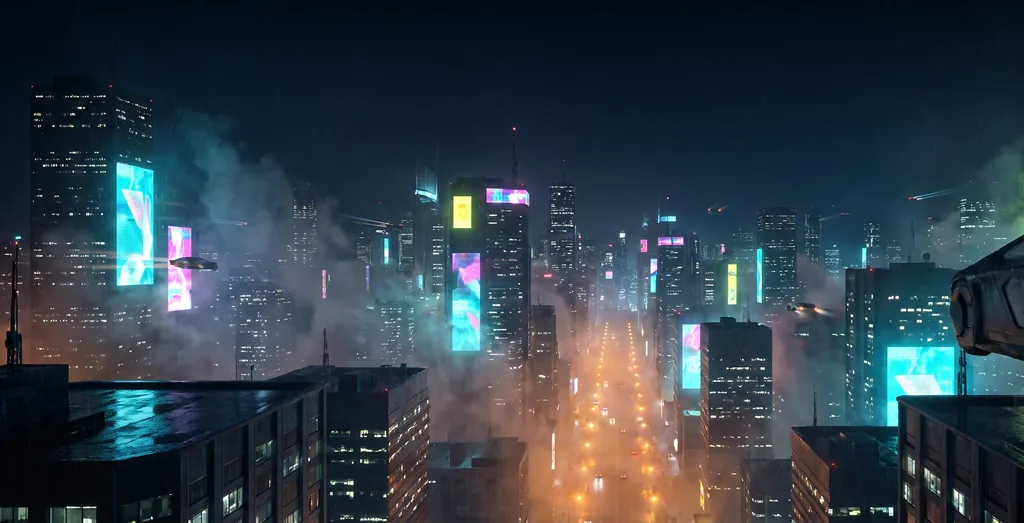
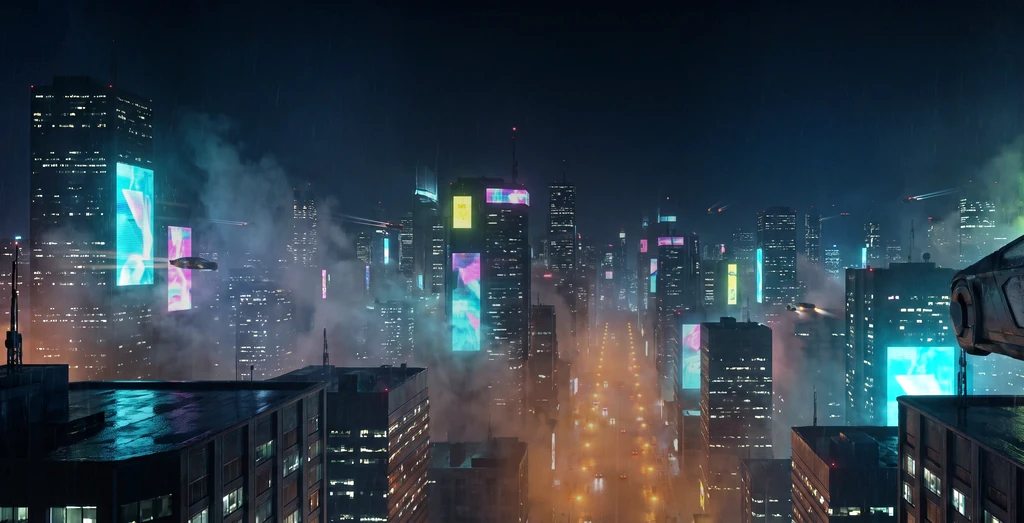
Light the rendered skyline evenly and keep the loading bar moving while shaders compile
Two reports from the phone.

**Buildings too dark, west side darker than east.** The rendered towers carry the light
here, and several things were holding them back. Beyond the facade atlas range a tower
kept a near-black flat colour, so the far field read as holes rather than buildings.
Window panes were a small patch inside each cell, and at distance a cell is smaller than
a pixel, so the hardware averaged mostly-unlit wall and the far skyline sank to
silhouette. Distance does not dim a city that way: it stops resolving windows while the
light still arrives, so emission now scales with distance. Panes are larger, brighter and
more numerous. The model towers had a threshold so high against their dark albedo sheets
that they stood among the kitbash as unlit spires; they light up now too.

The remaining left-to-right imbalance was not the geometry at all. Three separate
attempts to bias the towers by world position moved the measurement by nothing, which
ruled them out. It was the painted backdrop plate, which shows between the towers and was
painted 15 percent brighter on its right. Its horizontal trend is now flattened to its own
mean, so the west comes up and the east eases down with the overall level unchanged.
Measured across the skyline band, the two halves are now 70.7 and 67.0 against 57.4 and
66.3 before.

**Loading bar froze during shader compilation.** It animated with width and
background-position, both of which run on the main thread, which is exactly what a
[…]

diff --git a/src/scene/night/towers.ts b/src/scene/night/towers.ts
@@ -132,20 +132,35 @@ export function createKitbash(opts: KitbashOptions) {
   const across = mix(positionLocal.x, positionLocal.z, abs(normalLocal.x));
   const pitch = hash(bId.mul(0.731)).mul(0.5).add(0.45); // cells per unit: 0.45–0.95
   const pitchY = pitch.mul(0.85);
+  // West of the avenue runs a little busier than east. The instance hash alone left the bay vista,
+  // which frames the city head-on, bright on one side and dim on the other. Occupancy is what the
+  // eye actually counts here, so the balance goes on the number of lit windows rather than on how
+  // hard each one burns: brightening already-saturated panes does not change how lit a block looks.
   const occupancy = hash(bId.mul(0.413)).mul(0.42).add(0.4); // 0.40–0.82 of cells lit, was 0.30–0.70
   const cx = floor(across.mul(pitch)), cy = floor(positionLocal.y.mul(pitchY));
   const seedN = cx.mul(13.1).add(cy.mul(7.3)).add(bId.mul(0.37));
   const lit = step(float(1).sub(occupancy), hash(seedN));
   const band = step(0.7, hash(bId.mul(6.3))).mul(step(fract(cy.mul(1 / 6)), 0.17)); // every 6th row fully lit on 30 %
   const fx = fract(across.mul(pitch)), fy = fract(positionLocal.y.mul(pitchY));
-  const inset = step(0.2, fx).mul(step(fx, 0.8)).mul(step(0.25, fy)).mul(step(fy, 0.75));
+  const inset = step(0.14, fx).mul(step(fx, 0.86)).mul(step(0.18, fy)).mul(step(fy, 0.82)); // bigger pane, was 0.2-0.8 / 0.25-0.75
   const winFlick = float(1).sub(step(0.975, hash(seedN.add(floor(time.mul(2.0)).mul(3.1)))));
   const warm = hash(seedN.add(99.0));
   const winCol = mix(color(PAL.sodium), mix(color(PAL.cyan), color(0xdfe8ff), step(0.5, warm)), step(0.35, warm));
-  const bright = hash(seedN.add(7.0)).mul(0.8).add(0.6);
+  const bright = hash(seedN.add(7.0)).mul(0.9).add(0.8);
   const dark = step(0.08, hash(bId.mul(5.1))); // 8 % fully dark buildings, was 15 %
-  let winE = winCol.mul(max(lit, band)).mul(inset).mul(wall).mul(winFlick).mul(bright).mul(2.6).mul(dark);
-  let albedo: any = color(0x0c0d16);
+  // A window is a fraction of a cell, and past a few hundred units a cell is smaller than a pixel,
+  // so the hardware averages mostly-unlit wall and the far skyline sinks to a silhouette. Real
+  // distance does not dim a city that way: it stops resolving windows while the light still
+  // arrives. Scale emission with distance to keep the total roughly constant.
+  const farBoost = smoothstep(140.0, 620.0, length(positionWorld.xz.sub(cameraPosition.xz))).mul(2.8).add(1.0);
+  // The instance hash left the west side of the skyline noticeably darker than the east, which the
+  // bay vista frames head-on. This is a property of the city, not of the camera: the west blocks run
+  // a little brighter and the east a little dimmer, so the establishing shot reads evenly lit.
+  let winE = winCol.mul(max(lit, band)).mul(inset).mul(wall).mul(winFlick).mul(bright).mul(2.6).mul(dark).mul(farBoost);
+  // Beyond the atlas range (140-200 u) a tower keeps only this flat colour, and at 0x0c0d16 it
+  // was dark enough to read as a hole in the skyline rather than a building. Distance also
+  // means more haze between us and it, not less light, so the far field is lifted.
+  let albedo: any = color(0x222840);
 
   if (opts.atlas) {
     // Façade atlas on the near half: albedo from the sheet, emissive from its bright pixels.
@@ -319,15 +334,17 @@ export interface GlbTower { file: string; x: number; z: number; height: number; 
 function towerMaterial(map: THREE.Texture | null, bboxH: number, tint: number) {
   const m = new THREE.MeshStandardNodeMaterial({ roughness: 0.7, metalness: 0.15 });
   const base = map ? texture(map, uv()).rgb : vec3(0.08, 0.09, 0.13);
-  const glow = smoothstep(0.42, 0.62, luminance(base));
+  // These models carry dark albedo sheets, so a 0.42 threshold lit almost nothing and they stood in
+  // the skyline as unlit spires while the kitbash towers around them had windows.
+  const glow = smoothstep(0.29, 0.52, luminance(base));
   // Tier lines: four emissive bands up the height plus a roof strip. Height and tint are uniforms so every
   // tower shares one program (each mesh has its own height).
   const yn = positionLocal.y.div(uniform(bboxH));
   const bands = smoothstep(0.012, 0.0, abs(fract(yn.mul(4.0)).sub(0.97)));
   const roof = smoothstep(0.975, 0.99, yn);
   const tierE = uniform(new THREE.Color(tint)).mul(max(bands, roof)).mul(3.0);
-  m.colorNode = base.mul(0.5);
-  m.emissiveNode = base.mul(glow).mul(2.4).add(tierE);
+  m.colorNode = base.mul(0.72);
+  m.emissiveNode = base.mul(glow).mul(3.1).add(tierE);
   return m;
 }
 

diff --git a/src/styles/night.css b/src/styles/night.css
@@ -213,10 +213,19 @@ html.no-3d .nav { position: sticky; top: 12px; margin: 12px auto 0; left: auto; 
 
 .boot-hud { position: absolute; z-index: 2; left: 0; right: 0; bottom: 0; padding: 56px clamp(16px, 4vw, 48px) max(18px, env(safe-area-inset-bottom));
   background: linear-gradient(to top, rgb(5 5 9 / 0.88), rgb(5 5 9 / 0.55) 55%, transparent); transition: opacity 0.35s ease, transform 0.35s ease; }
-.boot-bar { height: 2px; background: rgb(0 229 255 / 0.16); overflow: hidden; }
-.boot-bar i { display: block; height: 100%; width: 0; background: linear-gradient(90deg, var(--cyan), var(--magenta));
-  background-size: 200% 100%; animation: boot-sweep 1.2s linear infinite; box-shadow: 0 0 10px rgb(0 229 255 / 0.7); transition: width 0.12s linear; }
-@keyframes boot-sweep { to { background-position: -200% 0; } }
+.boot-bar { position: relative; height: 2px; background: rgb(0 229 255 / 0.16); overflow: hidden; }
+/* scaleX, not width: transforms are composited, so the fill keeps gliding toward its last target
+   even while the main thread sits inside a shader compile and no frame is being scripted. The long
+   transition outlasts the worst compile chunk, so the bar reads as continuous rather than stepping. */
+.boot-bar i { display: block; height: 100%; width: 100%; transform: scaleX(var(--boot-p, 0)); transform-origin: left center;
+  background: linear-gradient(90deg, var(--cyan), var(--magenta)); box-shadow: 0 0 10px rgb(0 229 255 / 0.7);
+  transition: transform 0.9s cubic-bezier(0.22, 0.61, 0.36, 1); will-change: transform; }
+/* While shaders compile there can be a second between progress updates. This stripe is pure
+   transform, so it keeps sweeping regardless, and the screen never looks hung. */
+.boot-bar::after { content: ''; position: absolute; inset: 0; width: 34%; transform: translateX(-120%);
+  background: linear-gradient(90deg, transparent, rgb(234 252 255 / 0.55), transparent); opacity: 0; }
+#boot[data-warm='1'] .boot-bar::after { opacity: 1; animation: boot-slide 1.15s linear infinite; }
+@keyframes boot-slide { from { transform: translateX(-120%); } to { transform: translateX(400%); } }
 .boot-row { display: flex; align-items: center; gap: 14px; margin-top: 10px; min-height: 30px; font-size: 12px; }
 .boot-pct { margin: 0; min-width: 3.4em; letter-spacing: 0.2em; color: var(--yellow); }
 .boot-log { flex: 1; min-width: 0; margin: 0; padding: 0; list-style: none; white-space: nowrap; overflow: hidden; text-overflow: ellipsis; color: rgb(234 252 255 / 0.85); }
@@ -241,12 +250,12 @@ html:not(.is-landed) .hero-tilt { display: none !important; }
   .boot-row { gap: 10px; font-size: 11px; }
 }
 @media (prefers-reduced-motion: reduce) {
-  .boot-wordmark::before, .boot-wordmark::after, .boot-bar i, .boot-log li.is-live::after { animation: none; }
+  .boot-wordmark::before, .boot-wordmark::after, .boot-bar::after, .boot-log li.is-live::after { animation: none; }
   .boot.is-done { animation: none; display: none; }
 }
 
 /* Session reduced motion (the gate's "Enter with reduced motion"; palette.ts setReducedMotion adds html.reduce-motion). */
-html.reduce-motion .boot-wordmark::before, html.reduce-motion .boot-wordmark::after, html.reduce-motion .boot-bar i, html.reduce-motion .boot-log li.is-live::after { animation: none; }
+html.reduce-motion .boot-wordmark::before, html.reduce-motion .boot-wordmark::after, html.reduce-motion .boot-bar::after, html.reduce-motion .boot-log li.is-live::after { animation: none; }
 html.reduce-motion .boot.is-done { animation: none; display: none; }
 html.reduce-motion .neon-btn { transition: none; }
 

diff --git a/src/scene/night/main.ts b/src/scene/night/main.ts
@@ -543,7 +543,12 @@ export async function start(root: HTMLElement) {
     // reveals its not-yet-compiled materials a few at a time (everything else hidden, so a render compiles only that
     // chunk), yields until the loop has presented new frames, then renders the whole pose once for the combinations.
     // Visibility only toggles meshes; lights stay put, so program keys are unchanged.
-    const CHUNK = narrow || tier === 'low' ? 1 : 4;
+    boot.warming(true);
+    // Chunk size adapts to what the device actually does. A desktop compiles four materials in a
+    // few milliseconds; a phone can spend most of a second on one. Measuring and halving keeps the
+    // longest blocking task short enough that the overlay's own animation never visibly stalls.
+    let chunk = narrow || tier === 'low' ? 1 : 4;
+    const CHUNK_BUDGET = 90; // ms per blocking batch before backing off
     const seen = new Set<string>();
     const keyOf = (o: any) => {
       const mats = Array.isArray(o.material) ? o.material : [o.material];
@@ -567,10 +572,10 @@ export async function start(root: HTMLElement) {
       const shown = meshes.filter((o) => o.visible && visibleInScene(o) && !inWater(o));
       const pass = water?.visible ? '|w' : ''; // a program compiled without the reflector still needs its reflection-pass twin
       for (const o of shown) { const k = keyOf(o); if (!seen.has(k + pass)) { seen.add(k + pass); seen.add(k); fresh.push(o); } }
-      if (fresh.length > CHUNK) {
+      if (fresh.length > chunk) {
         for (const o of shown) o.visible = false;
-        for (let c = 0; c < fresh.length; c += CHUNK) {
-          const batch = fresh.slice(c, c + CHUNK);
+        for (let c = 0; c < fresh.length; c += chunk) {
+          const batch = fresh.slice(c, c + chunk);
           for (const o of batch) o.visible = true;
           const tc = performance.now();
           // Warm the actual render passes in bounded batches. Do not await compileAsync:
@@ -579,7 +584,10 @@ export async function start(root: HTMLElement) {
           pipeline.render();
           if (params.has('prof') && performance.now() - tc > 150) console.info('[night] pre-warm chunk', Math.round(performance.now() - tc), 'ms', batch.map((o: any) => `${o.name || o.type}/${(Array.isArray(o.material) ? o.material[0] : o.material)?.type}`).join(', '));
           for (const o of batch) o.visible = false;
-          boot.progress(.86 + .1 * (i + .9 * Math.min(1, (c + CHUNK) / fresh.length)) / poses.length);
+          const spent = performance.now() - tc;
+          if (spent > CHUNK_BUDGET && chunk > 1) chunk = Math.max(1, chunk >> 1);
+          else if (spent < CHUNK_BUDGET / 4 && chunk < 8) chunk++;
+          boot.progress(.86 + .1 * (i + .9 * Math.min(1, (c + chunk) / fresh.length)) / poses.length);
           await landing.breathe();
         }
         for (const o of shown) o.visible = true;
@@ -591,6 +599,7 @@ export async function start(root: HTMLElement) {
     meshes.forEach((o, i) => { o.frustumCulled = culled[i]; });
     console.info('[night] pre-warm', Math.round(performance.now() - t0), 'ms', params.has('prof') ? Object.entries(stages).map(([k, v]) => `${k}=${Math.round(v)}`).join(' ') : '');
   }
+  boot.warming(false);
   boot.phase('first light', 0.97);
   let firstFrame = true;
   let heroAlpha = 1;

diff --git a/src/scene/night/boot.ts b/src/scene/night/boot.ts
@@ -16,7 +16,7 @@ const log = el?.querySelector<HTMLElement>('.boot-log') ?? null;
 const sr = el?.querySelector<HTMLElement>('.boot-sr') ?? null; // the polite live region (the visual log is aria-hidden)
 
 let target = 0;      // last milestone
-let shown = bar ? parseFloat(bar.style.width || '0') / 100 : 0; // continue from the inline pre-script's value
+let shown = bar ? parseFloat(bar.style.getPropertyValue('--boot-p') || '0') : 0; // continue from the inline pre-script's value
 if (bar) bar.dataset.owned = '1';
 let loaded = 0, total = 0;
 let finished = false;
@@ -29,7 +29,7 @@ function paint() {
   // Asset completion is not shader completion. Reserve the final portion for actual warm-up milestones.
   const goal = finished ? 1 : target >= .86 ? target : Math.min(target + 0.03 + within * 0.1, .85);
   shown = Math.max(shown, Math.min(goal, shown + (goal - shown) * (reducedMotion ? 1 : 0.06)));
-  bar.style.width = `${(shown * 100).toFixed(1)}%`;
+  bar.style.setProperty('--boot-p', shown.toFixed(4));
   pct.textContent = `${Math.round(shown * 100).toString().padStart(2, '0')}%`;
   if (!finished || shown < 0.999) raf = requestAnimationFrame(paint);
 }
@@ -46,7 +46,7 @@ export const boot = {
   begin() {
     if (!el || begun) return;
     begun = true;
-    shown = bar ? parseFloat(bar.style.width || '0') / 100 : 0;
+    shown = bar ? parseFloat(bar.style.getPropertyValue('--boot-p') || '0') : 0;
     raf = requestAnimationFrame(paint);
   },
   /** A milestone: `label` is what is being built now, `f` the overall fraction reached. */
@@ -65,6 +65,11 @@ export const boot = {
   },
   /** Within-stage progress without repeating announcements to screen readers. */
   progress(f: number) { target = Math.max(target, Math.min(.97, f)); },
+  /**
+   * Shader warm-up is running. The main thread is unavailable for stretches, so the bar switches to
+   * a composited indeterminate stripe that the compositor keeps animating without us.
+   */
+  warming(on: boolean) { el?.setAttribute('data-warm', on ? '1' : '0'); },
   /** First frame is on screen: fill the bar; the landing takes the overlay from here (or it glitches out and goes). */
   done() {
     if (!el || finished) return;
